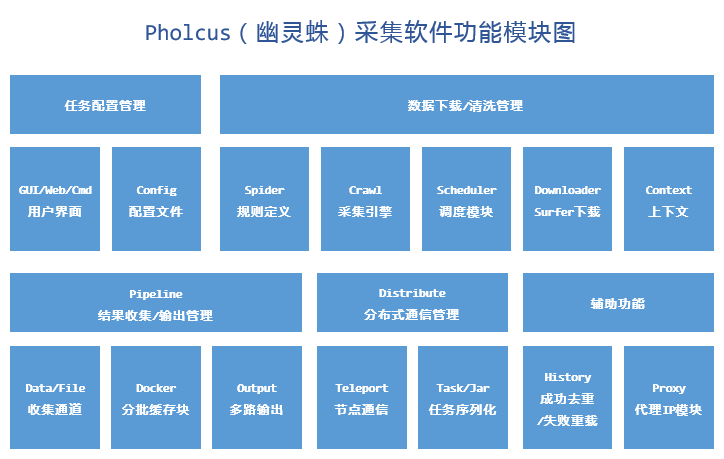
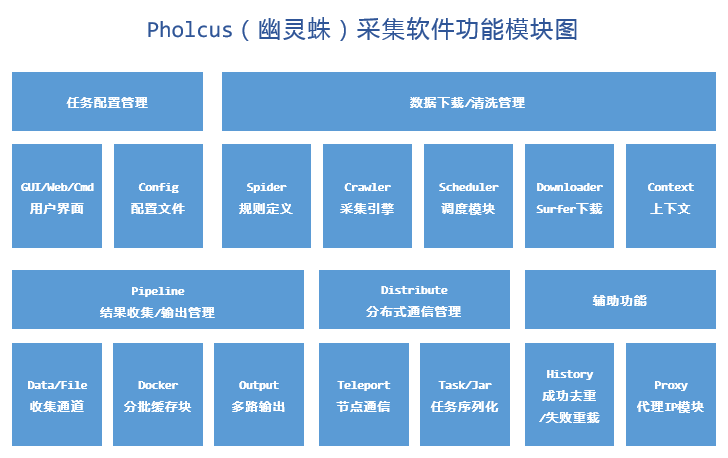
采集引擎crawl->crawler

diff --git a/app/app.go b/app/app.go
@@ -12,7 +12,7 @@ import (
 	"sync"
 	"time"
 
-	"github.com/henrylee2cn/pholcus/app/crawl"
+	"github.com/henrylee2cn/pholcus/app/crawler"
 	"github.com/henrylee2cn/pholcus/app/distribute"
 	"github.com/henrylee2cn/pholcus/app/pipeline"
 	"github.com/henrylee2cn/pholcus/app/pipeline/collector"
@@ -43,7 +43,7 @@ type (
 		Status() int                                                  // 返回当前状态
 		GetSpiderLib() []*spider.Spider                               // 获取全部蜘蛛种类
 		GetSpiderByName(string) *spider.Spider                        // 通过名字获取某蜘蛛
-		GetSpiderQueue() crawl.SpiderQueue                            // 获取蜘蛛队列接口实例
+		GetSpiderQueue() crawler.SpiderQueue                          // 获取蜘蛛队列接口实例
 		GetOutputLib() []string                                       // 获取全部输出方式
 		GetTaskJar() *distribute.TaskJar                              // 返回任务库
 		CountNodes() int                                              // 服务器客户端模式下返回节点数
@@ -51,9 +51,9 @@ type (
 	Logic struct {
 		*cache.AppConf                      // 全局配置
 		*spider.SpiderSpecies               // 全部蜘蛛种类
-		crawl.SpiderQueue                   // 当前任务的蜘蛛队列
+		crawler.SpiderQueue                 // 当前任务的蜘蛛队列
 		*distribute.TaskJar                 // 服务器与客户端间传递任务的存储库
-		crawl.CrawlPool                     // 爬行回收池
+		crawler.CrawlerPool                 // 爬行回收池
 		teleport.Teleport                   // socket长连接双工通信接口，json数据传输
 		sum                   [2]uint64     // 执行计数
 		takeTime              time.Duration // 执行计时
@@ -99,8 +99,8 @@ func newLogic() *Logic {
 		status:        status.STOPPED,
 		Teleport:      teleport.New(),
 		TaskJar:       distribute.NewTaskJar(),
-		SpiderQueue:   crawl.NewSpiderQueue(),
-		CrawlPool:     crawl.NewCrawlPool(),
+		SpiderQueue:   crawler.NewSpiderQueue(),
+		CrawlerPool:   crawler.NewCrawlerPool(),
 	}
 }
 
@@ -171,8 +171,8 @@ func (self *Logic) Init(mode int, port int, master string, w ...io.Writer) App {
 	self.AppConf.Mode, self.AppConf.Port, self.AppConf.Master = mode, port, master
 	self.Teleport = teleport.New()
 	self.TaskJar = distribute.NewTaskJar()
-	self.SpiderQueue = crawl.NewSpiderQueue()
-	self.CrawlPool = crawl.NewCrawlPool()
+	self.SpiderQueue = crawler.NewSpiderQueue()
+	self.CrawlerPool = crawler.NewCrawlerPool()
 
 	switch self.AppConf.Mode {
 	case status.SERVER:
@@ -272,7 +272,7 @@ func (self *Logic) CountNodes() int {
 }
 
 // 获取蜘蛛队列接口实例
-func (self *Logic) GetSpiderQueue() crawl.SpiderQueue {
+func (self *Logic) GetSpiderQueue() crawler.SpiderQueue {
 	return self.SpiderQueue
 }
 
@@ -324,7 +324,7 @@ func (self *Logic) PauseRecover() {
 func (self *Logic) Stop() {
 	// 不可颠倒停止的顺序
 	self.setStatus(status.STOP)
-	self.CrawlPool.Stop()
+	self.CrawlerPool.Stop()
 	scheduler.Stop()
 	for !self.IsStopped() {
 		runtime.Gosched()
@@ -514,10 +514,10 @@ func (self *Logic) exec() {
 	scheduler.Init()
 
 	// 设置爬虫队列
-	crawlCap := self.CrawlPool.Reset(count)
+	crawlerCap := self.CrawlerPool.Reset(count)
 
 	logs.Log.Informational(" *     执行任务总数(任务数[*自定义配置数])为 %v 个\n", count)
-	logs.Log.Informational(" *     爬虫池容量为 %v\n", crawlCap)
+	logs.Log.Informational(" *     采集引擎池容量为 %v\n", crawlerCap)
 	logs.Log.Informational(" *     并发协程最多 %v 个\n", self.AppConf.ThreadNum)
 	logs.Log.Informational(" *     随机停顿区间为 %v~%v 毫秒\n", self.AppConf.Pausetime/2, self.AppConf.Pausetime*2)
 	logs.Log.App(" *                                                                                                 —— 开始抓取，请耐心等候 ——")
@@ -547,13 +547,13 @@ func (self *Logic) goRun(count int) {
 			goto pause
 		}
 		// 从爬行队列取出空闲蜘蛛，并发执行
-		c := self.CrawlPool.Use()
+		c := self.CrawlerPool.Use()
 		if c != nil {
-			go func(i int, c crawl.Crawler) {
+			go func(i int, c crawler.Crawler) {
 				// 执行并返回结果消息
 				c.Init(self.SpiderQueue.GetByIndex(i)).Start()
 				// 任务结束后回收该蜘蛛
-				self.CrawlPool.Free(c)
+				self.CrawlerPool.Free(c)
 			}(i, c)
 		}
 	}

diff --git a/app/crawler/crawlerpool.go b/app/crawler/crawlerpool.go
@@ -1,4 +1,4 @@
-package crawl
+package crawler
 
 import (
 	"sync"
@@ -8,8 +8,9 @@ import (
 	"github.com/henrylee2cn/pholcus/runtime/status"
 )
 
+// 采集引擎池
 type (
-	CrawlPool interface {
+	CrawlerPool interface {
 		Reset(spiderNum int) int
 		Use() Crawler
 		Free(Crawler)
@@ -23,7 +24,7 @@ type (
 	}
 )
 
-func NewCrawlPool() CrawlPool {
+func NewCrawlerPool() CrawlerPool {
 	return &cq{
 		Src:    make(map[Crawler]bool),
 		status: status.RUN,

diff --git a/app/crawler/spiderqueue.go b/app/crawler/spiderqueue.go
@@ -1,4 +1,4 @@
-package crawl
+package crawler
 
 import (
 	. "github.com/henrylee2cn/pholcus/app/spider"
@@ -6,7 +6,7 @@ import (
 	"github.com/henrylee2cn/pholcus/logs"
 )
 
-// 运行时蜘蛛队列
+// 采集引擎中规则队列
 type (
 	SpiderQueue interface {
 		Reset() //重置清空队列
@@ -20,7 +20,6 @@ type (
 	}
 	sq struct {
 		list []*Spider
-		// hasKeyin bool
 	}
 )
 

diff --git a/app/crawler/crawler.go b/app/crawler/crawler.go
@@ -1,4 +1,4 @@
-package crawl
+package crawler
 
 import (
 	"math/rand"
